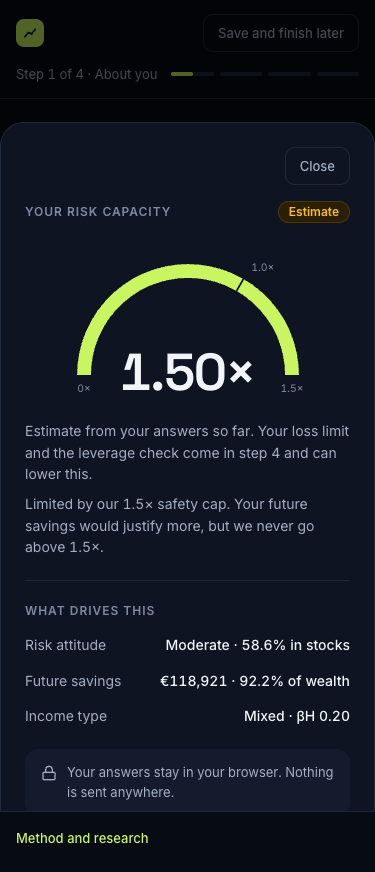
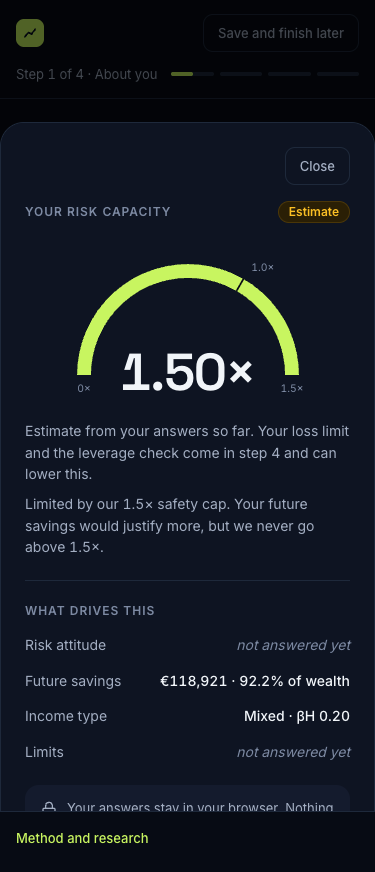
Phase 3c follow-up: "not answered yet" driver rows, Lighthouse 100 on all pages
- Onboarding panel: risk attitude and a new Limits row say "not answered yet"
  until Q12-13 / Q14+Q16 are answered (display only, engine unchanged).
- Recharts charts inside aria-hidden wrappers are no longer focusable
  (accessibilityLayer off, pie rootTabIndex -1).
- Description, two screenshots, changelog and prompt log (C-014) updated.

Claude-Session: https://claude.ai/code/session_01ANiUrWWKDCAsGpXnxqXFzu

diff --git a/src/pages/Onboarding.tsx b/src/pages/Onboarding.tsx
@@ -11,6 +11,7 @@ import { WHY_WE_ASK } from '../content/whyWeAsk'
 import {
   answerEffect,
   assumptions,
+  CAP_LABEL,
   driverLines,
   ESTIMATE_NOTE,
   drawdownQuestion,
@@ -289,10 +290,30 @@ export default function Onboarding() {
           <p className="text-[13px] text-muted">You can change any answer later.</p>
         </section>
 
-        <SummaryPanel value={target.finalEEE} estimate={pending.length > 0} unanswered={unanswered} text={explanation} drivers={driverLines(target)} />
+        <SummaryPanel value={target.finalEEE} estimate={pending.length > 0} unanswered={unanswered} text={explanation} drivers={panelDrivers(driverLines(target), target, answers, pending.length > 0)} />
       </div>
     </>
   )
+}
+
+const NOT_ANSWERED = 'not answered yet'
+
+/**
+ * "What drives this" rows for the side panel (BUILD_SPEC 15): risk attitude says "not answered yet" until Q12–13
+ * are answered, and a Limits row names the limit that applies, or "not answered yet" while Q14/Q16 are pending.
+ * Display only: every value is engine output.
+ */
+function panelDrivers(
+  lines: { label: string; value: string }[],
+  t: ReturnType<typeof useMyTarget>['target'],
+  answers: Partial<Profile>,
+  limitsPending: boolean,
+): { label: string; value: string }[] {
+  const attitudeOpen = answers.drawdownReaction === undefined || answers.incomeGamble === undefined
+  const rows = lines.map((d) => (d.label === 'Risk attitude' && attitudeOpen ? { ...d, value: NOT_ANSWERED } : d))
+  const cap = t.caps.find((c) => c.id === t.binding)
+  const limits = limitsPending ? NOT_ANSWERED : cap ? `${CAP_LABEL[cap.id]} · ${formatRatio(cap.value)}` : 'None reached'
+  return [...rows, { label: 'Limits', value: limits }]
 }
 
 function clampQ(n: number) {
@@ -418,7 +439,7 @@ function PanelBody({ value, estimate, unanswered, text, drivers }: PanelProps) {
           {drivers.map((d) => (
             <div key={d.label} className="flex items-baseline justify-between gap-3 text-help">
               <dt className="whitespace-nowrap text-ink-2">{d.label}</dt>
-              <dd className="text-right font-medium text-ink">{d.value}</dd>
+              <dd className={`text-right ${d.value === NOT_ANSWERED ? 'text-muted italic' : 'font-medium text-ink'}`}>{d.value}</dd>
             </div>
           ))}
         </dl>

diff --git a/src/pages/pages.test.tsx b/src/pages/pages.test.tsx
@@ -124,6 +124,18 @@ describe('Onboarding', () => {
     expect(t).toContain('1.50×')
   })
 
+  it('"What drives this" says "not answered yet" for risk attitude and limits until those questions are answered', async () => {
+    const t = await renderPage('Onboarding', { active: 'mine', answers: { age: 30 } })
+    expect(t).toContain('Risk attitude not answered yet')
+    expect(t).toContain('Limits not answered yet')
+  })
+
+  it('"What drives this" names the limit that applies once everything is answered', async () => {
+    const t = await renderPage('Onboarding', { active: 'mine', answers: PERSONAS.sofie.profile })
+    expect(t).not.toContain('not answered yet')
+    expect(t).toContain('Limits Safety cap (1.5×) · 1.50×')
+  })
+
   it('one question per screen, each with its own 4-part "Why we ask" card and the method link', async () => {
     const { WHY_WE_ASK } = await import('../content/whyWeAsk')
     const t = await renderPage('Onboarding')

diff --git a/src/components/AssetDonut.tsx b/src/components/AssetDonut.tsx
@@ -17,8 +17,8 @@ export default function AssetDonut({ values }: { values: ClassValue[] }) {
       {/* Fixed size (not ResponsiveContainer): the chart sits in a tab panel that can be hidden, and a hidden
           responsive chart measures 0×0 and logs a warning. */}
       <div className="mx-auto h-52 w-52" aria-hidden>
-        <PieChart width={208} height={208}>
-            <Pie data={values} dataKey="valueEUR" nameKey="assetClass" innerRadius="58%" outerRadius="95%" paddingAngle={1} stroke="#0E1422" strokeWidth={2} isAnimationActive={false}>
+        <PieChart width={208} height={208} accessibilityLayer={false}>
+            <Pie data={values} dataKey="valueEUR" nameKey="assetClass" innerRadius="58%" outerRadius="95%" paddingAngle={1} stroke="#0E1422" strokeWidth={2} isAnimationActive={false} rootTabIndex={-1}>
               {values.map((v) => (
                 <Cell key={v.assetClass} fill={CLASS_COLOR[v.assetClass]} />
               ))}

diff --git a/src/components/SleeveChart.tsx b/src/components/SleeveChart.tsx
@@ -10,7 +10,7 @@ export default function SleeveChart({ rows }: { rows: SleeveRow[] }) {
   return (
     <div className="h-64 w-full" aria-hidden>
       <ResponsiveContainer width="100%" height="100%">
-        <BarChart data={data} margin={{ top: 8, right: 8, bottom: 0, left: -12 }}>
+        <BarChart data={data} margin={{ top: 8, right: 8, bottom: 0, left: -12 }} accessibilityLayer={false}>
           <CartesianGrid stroke="#1E293B" vertical={false} />
           <XAxis dataKey="name" tick={{ fontSize: 12, fill: '#A3AEC2' }} interval={0} stroke="#1E293B" tickLine={false} />
           <YAxis tickFormatter={(v: number) => `${Math.round(v * 100)}%`} tick={{ fontSize: 12, fill: '#7D8AA3' }} axisLine={false} tickLine={false} />

diff --git a/docs/Application-Description.md b/docs/Application-Description.md
@@ -54,7 +54,7 @@ Students and young professionals (roughly 20–35) who have started investing or
 | Plan | Safety gates, satellites, target vs current, example products, crash test, borrowing panel, how to get there, Assumptions | `screenshots/desktop-plan-sofie.png`, `screenshots/mobile-plan-gates.png` |
 | Method | For the examiner: the five calculation steps with Sofie's worked example (computed live by the engine), every assumption with a one-line justification, the limits and gates, limitations and full references | `screenshots/desktop-method.png` |
 
-The app works on phones (375 px) and desktops, saves answers in the browser (no login), and needs no backend. The design follows a written design system (BUILD_SPEC section 15, v1.3): a dark interface (near-black background, layered surfaces and 1px borders instead of shadows), one lime accent for the user's own number and actions, sky blue for future savings and values below 1.0×, amber for warnings, Space Grotesk for headings and big numbers and Inter for text, with tabular figures throughout. The team approved three mockups (landing, onboarding question, results) on a design canvas; the app rebuilds them with its own components. Colour pairs pass WCAG AA, and Lighthouse rates accessibility 100 on the pages tested.
+The app works on phones (375 px) and desktops, saves answers in the browser (no login), and needs no backend. The design follows a written design system (BUILD_SPEC section 15, v1.3): a dark interface (near-black background, layered surfaces and 1px borders instead of shadows), one lime accent for the user's own number and actions, sky blue for future savings and values below 1.0×, amber for warnings, Space Grotesk for headings and big numbers and Inter for text, with tabular figures throughout. The team approved three mockups (landing, onboarding question, results) on a design canvas; the app rebuilds them with its own components. Colour pairs pass WCAG AA, and Lighthouse rates accessibility 100 on every page (Landing, Onboarding, Results, Portfolio, Plan and Method, with a demo person loaded, on phone and desktop).
 
 ## 6. Method
 

diff --git a/prompts/PROMPT_LOG.md b/prompts/PROMPT_LOG.md
@@ -112,3 +112,11 @@ From C-003 on, prompts are captured automatically in prompts/PROMPT_LOG_AUTO.md 
 **Result:** tests ✔ (193/193) · lint ✔ · build ✔ · browser check ✔ (43 states) · Lighthouse a11y 100
 **Human check:** (to fill in by Joachim)
 **Lesson:** The mockups' copy and the spec's copy disagreed (landing headline, CTA labels). Keeping the spec text that tests already check, and taking only layout and tone from the mockups, avoided a silent change to the source of truth.
+
+### C-014 · 2026-11-26 · Joachim · Claude Code · Phase 3c follow-up
+**Prompt:** see prompts/PROMPT_LOG_AUTO.md, entries 2026-11-26 19:39:22 (are we missing anything?) and 19:42:30 +02:00 (go ahead).
+**What the AI did:** Audited the build against spec sections 14–15 and listed the gaps. Then (1) the onboarding "What drives this" panel now says "not answered yet" for risk attitude until Q12–13 are answered, and has a Limits row that says "not answered yet" while Q14/Q16 are pending, otherwise it names the limit that applies (display only, engine unchanged); (2) ran Lighthouse accessibility on Results, Portfolio and Plan with a demo person loaded (localStorage seeded over CDP, storage reset off). Portfolio and Plan scored 96–97 because Recharts 3 makes chart SVGs focusable inside aria-hidden wrappers; turned that off (accessibilityLayer={false}, Pie rootTabIndex={-1}). Now 100 on every page.
+**Files changed:** src/pages/Onboarding.tsx, src/pages/pages.test.tsx, src/components/{AssetDonut,SleeveChart}.tsx, docs/Application-Description.md, docs/screenshots/{desktop-onboarding-7,mobile-onboarding-2}.png, docs/CHANGELOG.md, prompts/PROMPT_LOG.md
+**Result:** tests ✔ (195/195) · lint ✔ · build ✔ · browser check ✔ (43 states) · Lighthouse a11y 100 on all pages (phone + desktop)
+**Human check:** (to fill in by Joachim)
+**Lesson:** Lighthouse runs from a clean profile, so pages that need saved state were never really audited until storage was seeded first; the empty states had hidden the chart issue.

diff --git a/prompts/PROMPT_LOG_AUTO.md b/prompts/PROMPT_LOG_AUTO.md
@@ -91,3 +91,18 @@ Prompts typed before the hook existed, recovered from this project's Claude Code
 ### 2026-11-26 17:00:37 +02:00 · session 8e6a053f
 > Read BUILD_SPEC.md section 15 (v1.3) and the three mockups in docs/design/. Restyle the whole app to this design: tokens, fonts and header first, then Landing, Onboarding (convert to one question per screen, keep the pending-gates fix and the Why-we-ask content), Results, Portfolio, Plan and Method. Don't change the engine or data; all tests must still pass. Then rerun the 375px/1280px browser check, retake the screenshots in docs/Application-Description.md, update its design paragraph, commit, push and run npm run zip.
 
+### 2026-11-26 17:29:27 +02:00 · session 8e6a053f
+> <task-notification>
+> <task-id>bw690xdoq</task-id>
+> <tool-use-id>toolu_01YD1mEa5UMuHKST3fjTopdh</tool-use-id>
+> <output-file>/private/tmp/claude-501/-Users-joachimuldahl-hcc-human-capital-copilot/87554b23-ee54-4913-87d1-bff80a159e25/tasks/bw690xdoq.output</output-file>
+> <status>failed</status>
+> <summary>Background command "Serve production build for browser check" failed with exit code 144</summary>
+> </task-notification>
+
+### 2026-11-26 19:39:22 +02:00 · session 8e6a053f
+> are we missing anything?
+
+### 2026-11-26 19:42:30 +02:00 · session 8e6a053f
+> yes please go ahead with that and i'll try and gather what i can on my end.
+

diff --git a/docs/CHANGELOG.md b/docs/CHANGELOG.md
@@ -67,3 +67,8 @@
 - Onboarding is now one question per screen (`#/onboarding?q=1…17`), with Enter to continue, a `<details>` "Why we ask" card, a step progress bar and a phone bottom bar that opens the panel as a sheet. The pending-gates estimate logic is unchanged.
 - Landing, Results (hero card, glide-path markers, balance sheet with the portfolio's actual risk), Portfolio, Plan and Method restyled; the gauge is now a progress arc (lime ≥ 1.0×, sky below).
 - No engine or data changes. 193 tests; browser check at 375/1280 px clean; Lighthouse accessibility 100. Screenshots refreshed.
+
+## 2026-11-26 · Phase 3c follow-up · Gaps from the audit
+- Onboarding panel: "What drives this" shows "not answered yet" for risk attitude (Q12–13) and a new Limits row (Q14/Q16), then names the limit that applies.
+- Accessibility: chart SVGs inside aria-hidden wrappers are no longer keyboard-focusable (Recharts accessibilityLayer off, pie rootTabIndex −1).
+- Lighthouse accessibility now 100 on all pages with a demo person loaded, phone and desktop; description and two screenshots updated.
